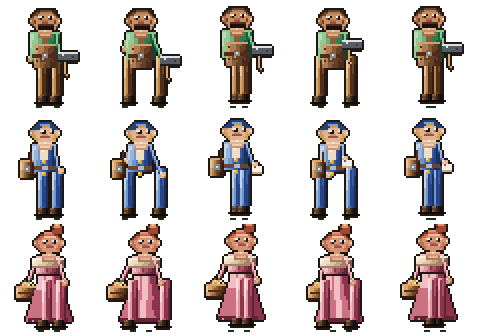
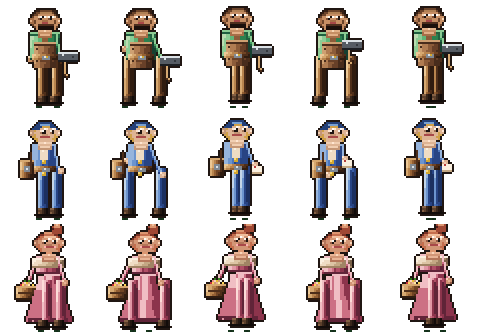
Town r4 step B: folk trim, eyes, apron and belt detail

diff --git a/tool/town_life_art.py b/tool/town_life_art.py
@@ -977,6 +977,7 @@ def _trouser_leg(
     left = center_x - w // 2
     _shade_rect(pix, left, top, w, max(1, bottom - top), ramp)
     pix.rect(left + 2, top + 1, 1, max(1, bottom - top - 2), ramp[1])
+    pix.rect(left + w - 2, top + 2, 1, max(1, bottom - top - 4), ramp[0])
 
 
 def _torso(pix: Pix, x: int, y: int, w: int, h: int, ramp: list[tuple[int, int, int]]) -> None:
@@ -985,6 +986,12 @@ def _torso(pix: Pix, x: int, y: int, w: int, h: int, ramp: list[tuple[int, int, 
     pix.rect(x + w // 2 - 1, y + 2, 1, h - 3, ramp[1])
     pix.rect(x + w - 2, y + 2, 1, h - 2, ramp[0])
     pix.rect(x, y, w, 1, ramp[min(5, len(ramp) - 1)])
+    pix.rect(x, y + h - 1, w, 1, ramp[0])
+
+
+def _trim_h(pix: Pix, x: int, y: int, w: int, light: tuple[int, int, int], dark: tuple[int, int, int]) -> None:
+    pix.rect(x, y, w, 1, light)
+    pix.rect(x, y + 1, w, 1, dark)
 
 
 def _head_pixels(style: str) -> tuple[tuple[str, ...], dict[str, tuple[int, int, int]]]:
@@ -1056,6 +1063,10 @@ def _draw_head(pix: Pix, x: int, y: int, style: str) -> None:
     rows, cmap = _head_pixels(style)
     _stamp(pix, x, y, rows, cmap)
     skin = {"smith": SKIN_TAN, "courier": SKIN_LIGHT, "gardener": SKIN_WARM}[style]
+    # Eye glints on the stamped whites.
+    for ex, ey in ((x + 6, y + 3), (x + 10, y + 3)):
+        pix.put(ex, ey, (255, 252, 248))
+        pix.put(ex + 1, ey, skin[5])
     # Ears.
     pix.rect(x - 1, y + 4, 2, 3, skin[2])
     pix.rect(x + len(rows[0]) - 1, y + 4, 2, 3, skin[3])
@@ -1156,19 +1167,21 @@ def _smith(
     # Apron over the tunic, with a strap and stitches.
     _shade_rect(pix, cx - 5, 22 + bob, 11, 12, APRON)
     pix.rect(cx - 1, 17 + bob, 3, 6, APRON[2])
-    pix.rect(cx - 5, 22 + bob, 11, 1, APRON[4])
+    _trim_h(pix, cx - 5, 21 + bob, 11, APRON[4], APRON[0])
     for syy in range(24 + bob, 32 + bob, 3):
         pix.put(cx - 4, syy, APRON[0])
         pix.put(cx + 4, syy, APRON[1])
     pix.rect(cx - 2, 28 + bob, 4, 3, APRON[1])
     pix.put(cx - 1, 29 + bob, APRON[4])
-    # Belt.
-    pix.rect(cx - 6, hy - 1, 13, 2, LEATHER[1])
-    pix.rect(cx - 1, hy - 1, 3, 2, IRON[3])
-    pix.put(cx, hy - 1, IRON[5])
+    # Belt and buckle.
+    _shade_rect(pix, cx - 6, hy - 1, 13, 3, LEATHER)
+    pix.rect(cx - 1, hy, 4, 2, IRON[3])
+    pix.put(cx, hy, IRON[5])
+    pix.put(cx + 1, hy, (212, 168, 48))
     # Neckerchief.
     pix.rect(cx - 3, 16 + bob, 7, 2, (164, 36, 44))
     pix.put(cx - 2, 16 + bob, (220, 140, 130))
+    _trim_h(pix, cx - 7, 16 + bob, 15, MOSS_CLOTH[5], MOSS_CLOTH[1])
     _limb(pix, cx + 6, sy, cx + 6 + hands[1][0], sy + hands[1][1], MOSS_CLOTH, 3)
     hx = cx + 6 + hands[1][0]
     hyh = sy + hands[1][1]
@@ -1201,14 +1214,17 @@ def _courier(
     _boot(pix, cx + steps[0], 48 + bob)
     _boot(pix, cx + steps[1] - 1, 48 + bob)
     _torso(pix, cx - 6, 16 + bob, 12, 14, WOOL)
-    # Shirt and a row of buttons. The coat opening is a light wedge.
+    # Shirt, lapel wedge, gold buttons.
     pix.rect(cx - 2, 18 + bob, 4, 6, CREAM[4])
     pix.put(cx - 1, 19 + bob, CREAM[5])
+    pix.rect(cx - 6, 17 + bob, 2, 12, WOOL[5])
+    pix.rect(cx + 4, 18 + bob, 2, 10, WOOL[1])
     for by in (24, 27, 30):
         pix.rect(cx - 1, by + bob, 2, 2, (212, 168, 48))
         pix.put(cx - 1, by + bob, (255, 220, 120))
-    pix.rect(cx - 6, hy - 1, 12, 2, LEATHER[2])
-    pix.rect(cx - 1, hy - 1, 3, 2, IRON[4])
+    _shade_rect(pix, cx - 6, hy - 1, 12, 3, LEATHER)
+    pix.rect(cx - 1, hy, 4, 2, IRON[3])
+    pix.put(cx, hy, IRON[5])
     # Satchel on the trailing hip. It sways against the stride.
     sx = cx - 12 + sway
     _shade_rect(pix, sx, 24 + bob, 7, 9, LEATHER)
@@ -1246,6 +1262,7 @@ def _gardener(pix: Pix, bob: int, steps: tuple[int, int], sway: int) -> None:
     pix.rect(cx - 8, 17 + bob, 16, 1, CREAM[5])
     pix.rect(cx - 8, 21 + bob, 16, 1, CREAM[1])
     pix.put(cx - 4, 19 + bob, CREAM[4])
+    _trim_h(pix, cx - 2, 25 + bob, 8, ROSE[5], ROSE[1])
     # Skirt flares, and it sways with the step.
     top = 26 + bob
     hem = 49 + bob
